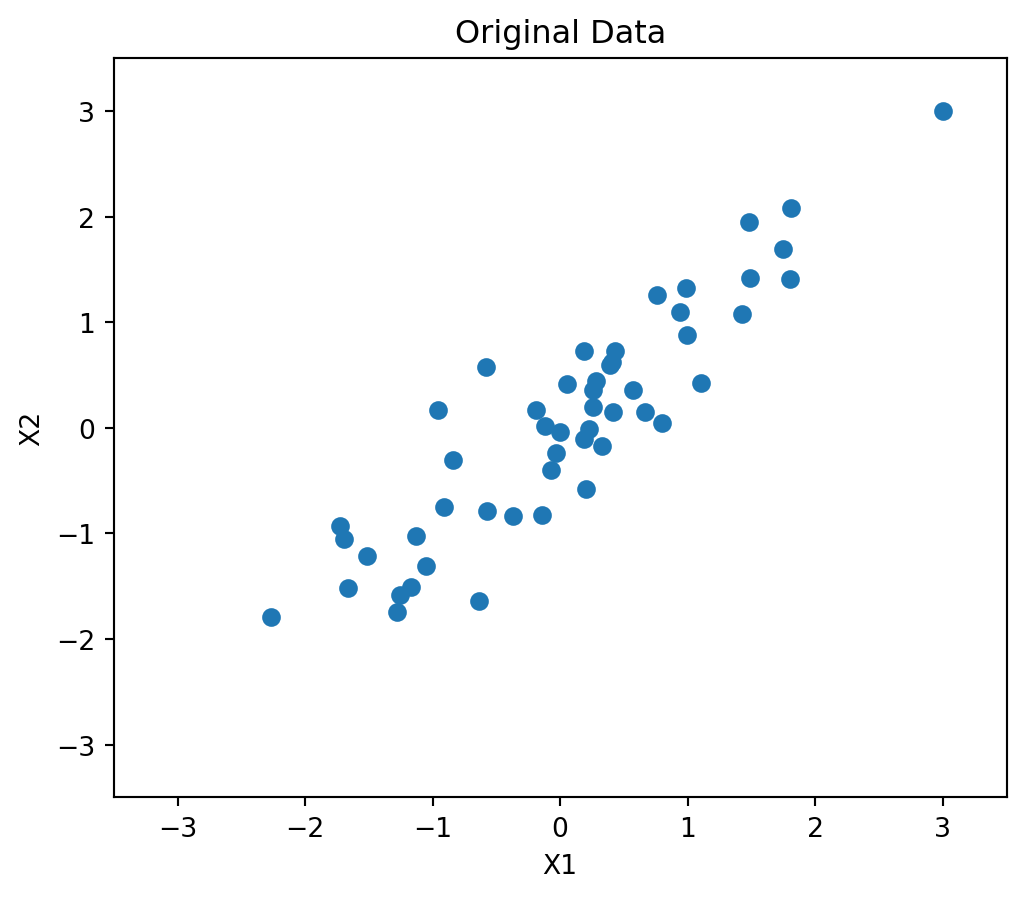
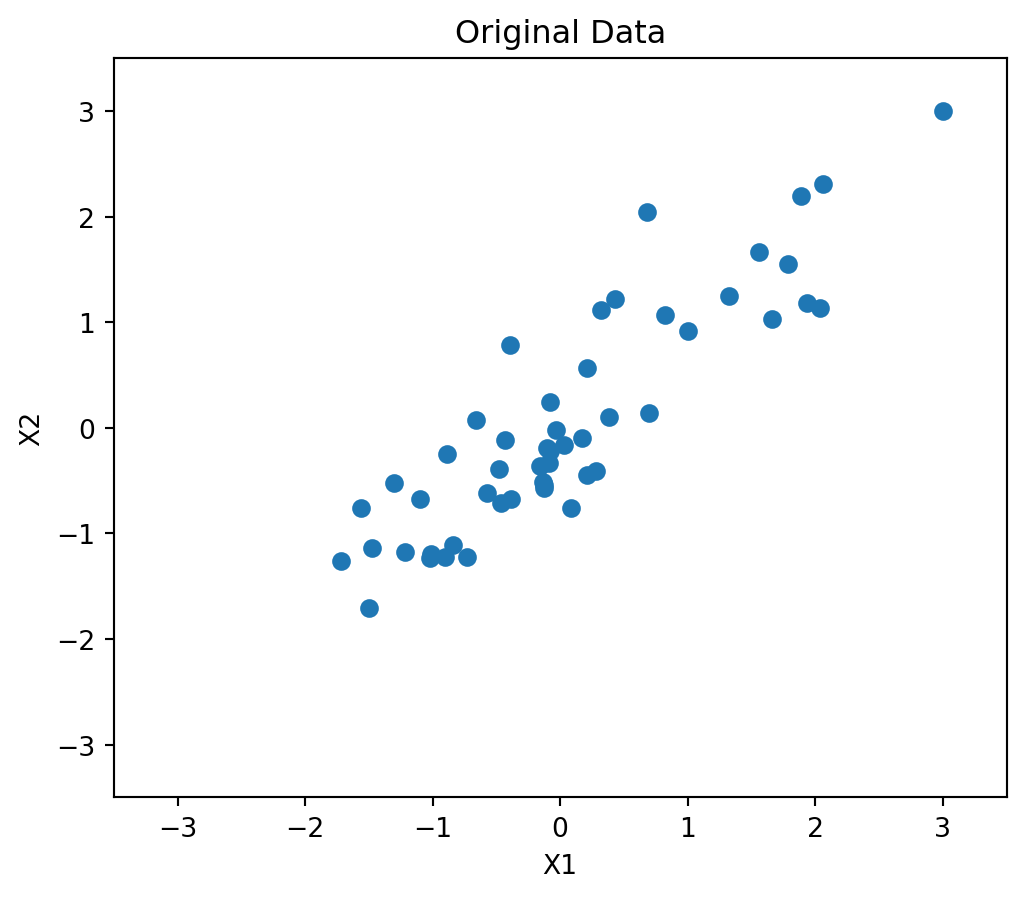
Adds non-linear PCA

diff --git a/c05_pca/c05_pca.html b/c05_pca/c05_pca.html
@@ -410,7 +410,7 @@
 <h3 id="stat.-and-or-department-tau">Stat. and OR Department, TAU</h3>
 <aside class="notes">
 <div style="direction:rtl; font-size:16px">
-
+<p>בשיעור זה נלמד על ניתוח גורמים ראשיים, או principal components analysis. אפשר לראות ב-PCA כשיטה מתקדמת לחקר של דאטא ולכן אנחנו לומדים אותה ממש כעת. אפשר גם לראות בה הרבה מעבר. PCA היא הבסיס להרבה מאוד אלגוריתמים מתקדמים בחזית המחקר, אלגוריתמים שעוסקים בלמידת ייצוגים ממימד נמוך, לדאטא ממימד עצום, על מנת שנוכל ללמוד מהדאטא הזה משהו.</p>
 </div>
 <style type="text/css">
         span.MJX_Assistive_MathML {
@@ -463,7 +463,8 @@
 </div>
 <aside class="notes">
 <div style="direction:rtl; font-size:16px">
-
+<p>נתחיל בדוגמא פשוטה ונתקדם משם. יש לי דאטא עם n תצפיות ושני משתנים. אני רוצה לייצג כל תצפית לא עם שני משתנים אלא עם אחד. מספר אחד שימצה אותה, וזאת עם לאבד כמה שפחות מידע. כלומר: אני רוצה להוריד את המימד מ2 ל1.</p>
+<p>אם אני משרטט את הנתונים, ברור לי אינטואיטיבית מה הכיוון בהם, מה הקו או הוקטור ששומר את מקסימום המידע. זה הקו הזה.</p>
 </div>
 <style type="text/css">
         span.MJX_Assistive_MathML {
@@ -506,7 +507,7 @@
 </div>
 <aside class="notes">
 <div style="direction:rtl; font-size:16px">
-
+<p>PCA יעשה בדיוק את זה. הוא ימצא את הכיוון, או הוקטור שלאורכו נשמר מירב המידע בנתונים, וכשנמצא את הוקטור הזה, נוכל להטיל את הנתונים עליו, כלומר כל תצפית תקבל את הערך שלה על הקו החשוב הזה. וככה נקבל את מה שרצינו: דאטא במימד שני משתנים, הפך לדאטא במימד אחד, עם כמה שפחות איבוד מידע.</p>
 </div>
 <style type="text/css">
         span.MJX_Assistive_MathML {
@@ -834,21 +835,21 @@
 </details>
 <div class="cell-output cell-output-display" data-execution_count="13">
 <style type="text/css">
-#T_bf0f8_row0_col0, #T_bf0f8_row1_col0, #T_bf0f8_row2_col0, #T_bf0f8_row3_col0, #T_bf0f8_row4_col0, #T_bf0f8_row4_col2, #T_bf0f8_row5_col0, #T_bf0f8_row5_col2, #T_bf0f8_row6_col0, #T_bf0f8_row6_col2, #T_bf0f8_row7_col0, #T_bf0f8_row8_col0, #T_bf0f8_row9_col0, #T_bf0f8_row9_col2 {
+#T_337e9_row0_col0, #T_337e9_row1_col0, #T_337e9_row2_col0, #T_337e9_row3_col0, #T_337e9_row4_col0, #T_337e9_row4_col2, #T_337e9_row5_col0, #T_337e9_row5_col2, #T_337e9_row6_col0, #T_337e9_row6_col2, #T_337e9_row7_col0, #T_337e9_row8_col0, #T_337e9_row9_col0, #T_337e9_row9_col2 {
   color: black;
 }
-#T_bf0f8_row0_col1, #T_bf0f8_row0_col2, #T_bf0f8_row1_col1, #T_bf0f8_row1_col2, #T_bf0f8_row2_col1, #T_bf0f8_row2_col2, #T_bf0f8_row3_col1, #T_bf0f8_row3_col2, #T_bf0f8_row4_col1, #T_bf0f8_row5_col1, #T_bf0f8_row6_col1, #T_bf0f8_row7_col1, #T_bf0f8_row7_col2, #T_bf0f8_row8_col1, #T_bf0f8_row8_col2, #T_bf0f8_row9_col1 {
+#T_337e9_row0_col1, #T_337e9_row0_col2, #T_337e9_row1_col1, #T_337e9_row1_col2, #T_337e9_row2_col1, #T_337e9_row2_col2, #T_337e9_row3_col1, #T_337e9_row3_col2, #T_337e9_row4_col1, #T_337e9_row5_col1, #T_337e9_row6_col1, #T_337e9_row7_col1, #T_337e9_row7_col2, #T_337e9_row8_col1, #T_337e9_row8_col2, #T_337e9_row9_col1 {
   color: red;
 }
 </style>
 
-<table id="T_bf0f8" data-quarto-postprocess="true">
+<table id="T_337e9" data-quarto-postprocess="true">
 <thead>
 <tr class="header">
 <th class="blank level0" data-quarto-table-cell-role="th">&nbsp;</th>
-<th id="T_bf0f8_level0_col0" class="col_heading level0 col0" data-quarto-table-cell-role="th">mean_rating</th>
-<th id="T_bf0f8_level0_col1" class="col_heading level0 col1" data-quarto-table-cell-role="th">PC1</th>
-<th id="T_bf0f8_level0_col2" class="col_heading level0 col2" data-quarto-table-cell-role="th">PC2</th>
+<th id="T_337e9_level0_col0" class="col_heading level0 col0" data-quarto-table-cell-role="th">mean_rating</th>
+<th id="T_337e9_level0_col1" class="col_heading level0 col1" data-quarto-table-cell-role="th">PC1</th>
+<th id="T_337e9_level0_col2" class="col_heading level0 col2" data-quarto-table-cell-role="th">PC2</th>
 </tr>
 <tr class="odd">
 <th class="index_name level0" data-quarto-table-cell-role="th">title</th>
@@ -859,64 +860,64 @@
 </thead>
 <tbody>
 <tr class="odd">
-<td id="T_bf0f8_level0_row0" class="row_heading level0 row0" data-quarto-table-cell-role="th">Independence Day</td>
-<td id="T_bf0f8_row0_col0" class="data row0 col0">4.15</td>
-<td id="T_bf0f8_row0_col1" class="data row0 col1">-0.25</td>
-<td id="T_bf0f8_row0_col2" class="data row0 col2">-0.26</td>
+<td id="T_337e9_level0_row0" class="row_heading level0 row0" data-quarto-table-cell-role="th">Independence Day</td>
+<td id="T_337e9_row0_col0" class="data row0 col0">4.15</td>
+<td id="T_337e9_row0_col1" class="data row0 col1">-0.25</td>
+<td id="T_337e9_row0_col2" class="data row0 col2">-0.26</td>
 </tr>
 <tr class="even">
-<td id="T_bf0f8_level0_row1" class="row_heading level0 row1" data-quarto-table-cell-role="th">The Patriot</td>
-<td id="T_bf0f8_row1_col0" class="data row1 col0">4.11</td>
-<td id="T_bf0f8_row1_col1" class="data row1 col1">-0.26</td>
-<td id="T_bf0f8_row1_col2" class="data row1 col2">-0.06</td>
+<td id="T_337e9_level0_row1" class="row_heading level0 row1" data-quarto-table-cell-role="th">The Patriot</td>
+<td id="T_337e9_row1_col0" class="data row1 col0">4.11</td>
+<td id="T_337e9_row1_col1" class="data row1 col1">-0.26</td>
+<td id="T_337e9_row1_col2" class="data row1 col2">-0.06</td>
 </tr>
 <tr class="odd">
-<td id="T_bf0f8_level0_row2" class="row_heading level0 row2" data-quarto-table-cell-role="th">The Day After Tomorrow</td>
-<td id="T_bf0f8_row2_col0" class="data row2 col0">3.70</td>
-<td id="T_bf0f8_row2_col1" class="data row2 col1">-0.32</td>
-<td id="T_bf0f8_row2_col2" class="data row2 col2">-0.15</td>
+<td id="T_337e9_level0_row2" class="row_heading level0 row2" data-quarto-table-cell-role="th">The Day After Tomorrow</td>
+<td id="T_337e9_row2_col0" class="data row2 col0">3.70</td>
+<td id="T_337e9_row2_col1" class="data row2 col1">-0.32</td>
+<td id="T_337e9_row2_col2" class="data row2 col2">-0.15</td>
 </tr>
 <tr class="even">
-<td id="T_bf0f8_level0_row3" class="row_heading level0 row3" data-quarto-table-cell-role="th">Pirates of the Caribbean: The Curse of the Black Pearl</td>
-<td id="T_bf0f8_row3_col0" class="data row3 col0">4.35</td>
-<td id="T_bf0f8_row3_col1" class="data row3 col1">-0.15</td>
-<td id="T_bf0f8_row3_col2" class="data row3 col2">-0.03</td>
+<td id="T_337e9_level0_row3" class="row_heading level0 row3" data-quarto-table-cell-role="th">Pirates of the Caribbean: The Curse of the Black Pearl</td>
+<td id="T_337e9_row3_col0" class="data row3 col0">4.35</td>
+<td id="T_337e9_row3_col1" class="data row3 col1">-0.15</td>
+<td id="T_337e9_row3_col2" class="data row3 col2">-0.03</td>
 </tr>
 <tr class="odd">
-<td id="T_bf0f8_level0_row4" class="row_heading level0 row4" data-quarto-table-cell-role="th">Pretty Woman</td>
-<td id="T_bf0f8_row4_col0" class="data row4 col0">4.07</td>
-<td id="T_bf0f8_row4_col1" class="data row4 col1">-0.23</td>
-<td id="T_bf0f8_row4_col2" class="data row4 col2">0.45</td>
+<td id="T_337e9_level0_row4" class="row_heading level0 row4" data-quarto-table-cell-role="th">Pretty Woman</td>
+<td id="T_337e9_row4_col0" class="data row4 col0">4.07</td>
+<td id="T_337e9_row4_col1" class="data row4 col1">-0.23</td>
+<td id="T_337e9_row4_col2" class="data row4 col2">0.45</td>
 </tr>
 <tr class="even">
-<td id="T_bf0f8_level0_row5" class="row_heading level0 row5" data-quarto-table-cell-role="th">Forrest Gump</td>
-<td id="T_bf0f8_row5_col0" class="data row5 col0">4.51</td>
-<td id="T_bf0f8_row5_col1" class="data row5 col1">-0.11</td>
-<td id="T_bf0f8_row5_col2" class="data row5 col2">0.01</td>
+<td id="T_337e9_level0_row5" class="row_heading level0 row5" data-quarto-table-cell-role="th">Forrest Gump</td>
+<td id="T_337e9_row5_col0" class="data row5 col0">4.51</td>
+<td id="T_337e9_row5_col1" class="data row5 col1">-0.11</td>
+<td id="T_337e9_row5_col2" class="data row5 col2">0.01</td>
 </tr>
 <tr class="odd">
-<td id="T_bf0f8_level0_row6" class="row_heading level0 row6" data-quarto-table-cell-role="th">The Green Mile</td>
-<td id="T_bf0f8_row6_col0" class="data row6 col0">4.46</td>
-<td id="T_bf0f8_row6_col1" class="data row6 col1">-0.16</td>
-<td id="T_bf0f8_row6_col2" class="data row6 col2">0.00</td>
+<td id="T_337e9_level0_row6" class="row_heading level0 row6" data-quarto-table-cell-role="th">The Green Mile</td>
+<td id="T_337e9_row6_col0" class="data row6 col0">4.46</td>
+<td id="T_337e9_row6_col1" class="data row6 col1">-0.16</td>
+<td id="T_337e9_row6_col2" class="data row6 col2">0.00</td>
 </tr>
 <tr class="even">
-<td id="T_bf0f8_level0_row7" class="row_heading level0 row7" data-quarto-table-cell-role="th">Con Air</td>
-<td id="T_bf0f8_row7_col0" class="data row7 col0">3.73</td>
-<td id="T_bf0f8_row7_col1" class="data row7 col1">-0.30</td>
-<td id="T_bf0f8_row7_col2" class="data row7 col2">-0.32</td>
+<td id="T_337e9_level0_row7" class="row_heading level0 row7" data-quarto-table-cell-role="th">Con Air</td>
+<td id="T_337e9_row7_col0" class="data row7 col0">3.73</td>
+<td id="T_337e9_row7_col1" class="data row7 col1">-0.30</td>
+<td id="T_337e9_row7_col2" class="data row7 col2">-0.32</td>
 </tr>
 <tr class="odd">
-<td id="T_bf0f8_level0_row8" class="row_heading level0 row8" data-quarto-table-cell-role="th">Twister</td>
-<td id="T_bf0f8_row8_col0" class="data row8 col0">3.75</td>
-<td id="T_bf0f8_row8_col1" class="data row8 col1">-0.30</td>
-<td id="T_bf0f8_row8_col2" class="data row8 col2">-0.14</td>
+<td id="T_337e9_level0_row8" class="row_heading level0 row8" data-quarto-table-cell-role="th">Twister</td>
+<td id="T_337e9_row8_col0" class="data row8 col0">3.75</td>
+<td id="T_337e9_row8_col1" class="data row8 col1">-0.30</td>
+<td id="T_337e9_row8_col2" class="data row8 col2">-0.14</td>
 </tr>
 <tr class="even">
-<td id="T_bf0f8_level0_row9" class="row_heading level0 row9" data-quarto-table-cell-role="th">Sweet Home Alabama</td>
-<td id="T_bf0f8_row9_col0" class="data row9 col0">3.67</td>
-<td id="T_bf0f8_row9_col1" class="data row9 col1">-0.30</td>
-<td id="T_bf0f8_row9_col2" class="data row9 col2">0.59</td>
+<td id="T_337e9_level0_row9" class="row_heading level0 row9" data-quarto-table-cell-role="th">Sweet Home Alabama</td>
+<td id="T_337e9_row9_col0" class="data row9 col0">3.67</td>
+<td id="T_337e9_row9_col1" class="data row9 col1">-0.30</td>
+<td id="T_337e9_row9_col2" class="data row9 col2">0.59</td>
 </tr>
 </tbody>
 </table>
@@ -1314,8 +1315,35 @@ X'X\mathbf{v}_1 = \lambda_1\mathbf{v}_1\]</span></p></li>
 </ul></li>
 </ul>
 </div>
+</section>
+<section id="non-linear-pca" class="slide level2 title-slide center">
+<h2>Non-Linear PCA</h2>
+</section>
+<section class="slide level2">
 
-<img src="../Intro2DS_logo_white.jpg" class="slide-logo r-stretch"><div class="footer footer-default">
+<h3 id="non-linear-relation">Non-linear Relation</h3>
+<div class="columns">
+<div class="column" style="width:50%;">
+<p>Previously…</p>
+<div class="cell" data-execution_count="24">
+<div class="cell-output cell-output-display">
+<p><img data-src="c05_pca_files/figure-revealjs/cell-25-output-1.png" width="513" height="429"></p>
+</div>
+</div>
+</div><div class="column" style="width:50%;">
+<p>Now:</p>
+<div class="cell" data-execution_count="25">
+<div class="cell-output cell-output-display">
+<p><img data-src="c05_pca_files/figure-revealjs/cell-26-output-1.png" width="534" height="429"></p>
+</div>
+</div>
+</div>
+</div>
+<div class="fragment">
+<p>Try non-linear PCA: Kernel PCA, Autoencoders</p>
+</div>
+<p><img src="../Intro2DS_logo_white.jpg" class="slide-logo"></p>
+<div class="footer footer-default">
 <p><a href="https://intro2ds2023.github.io/mooc/" target="_blank">Intro to Data Science</a></p>
 </div>
 </section>
